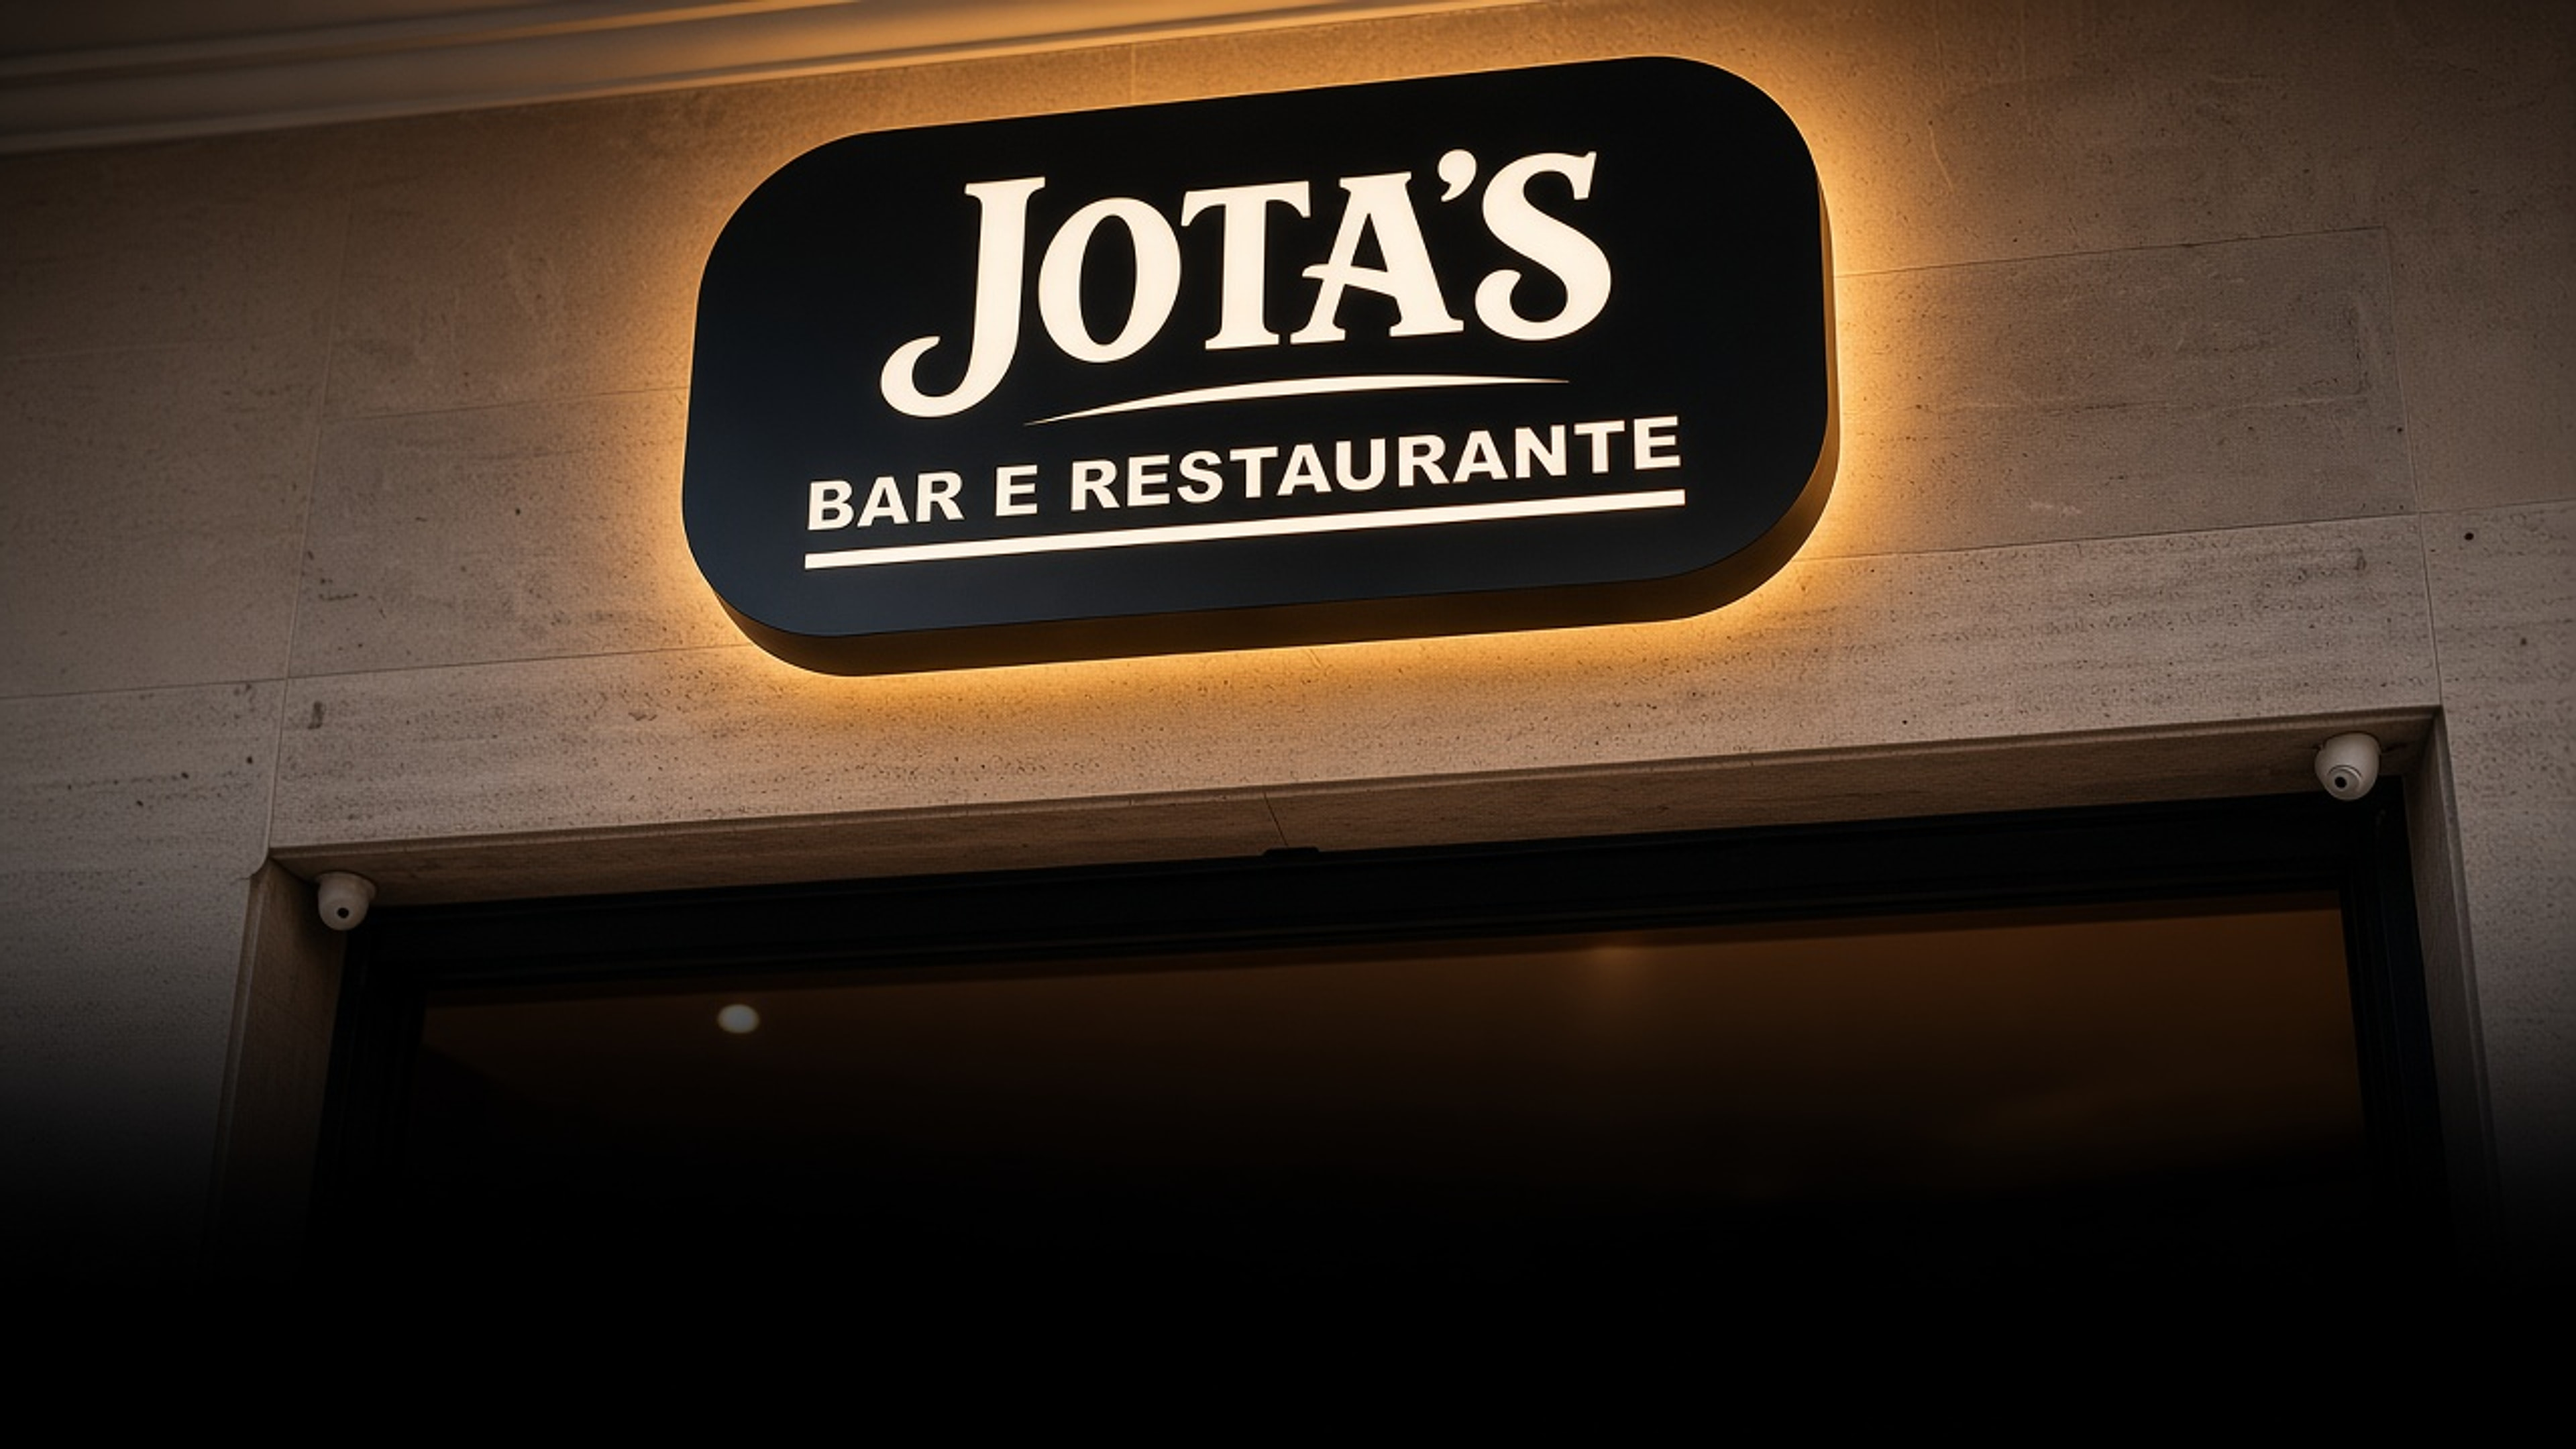
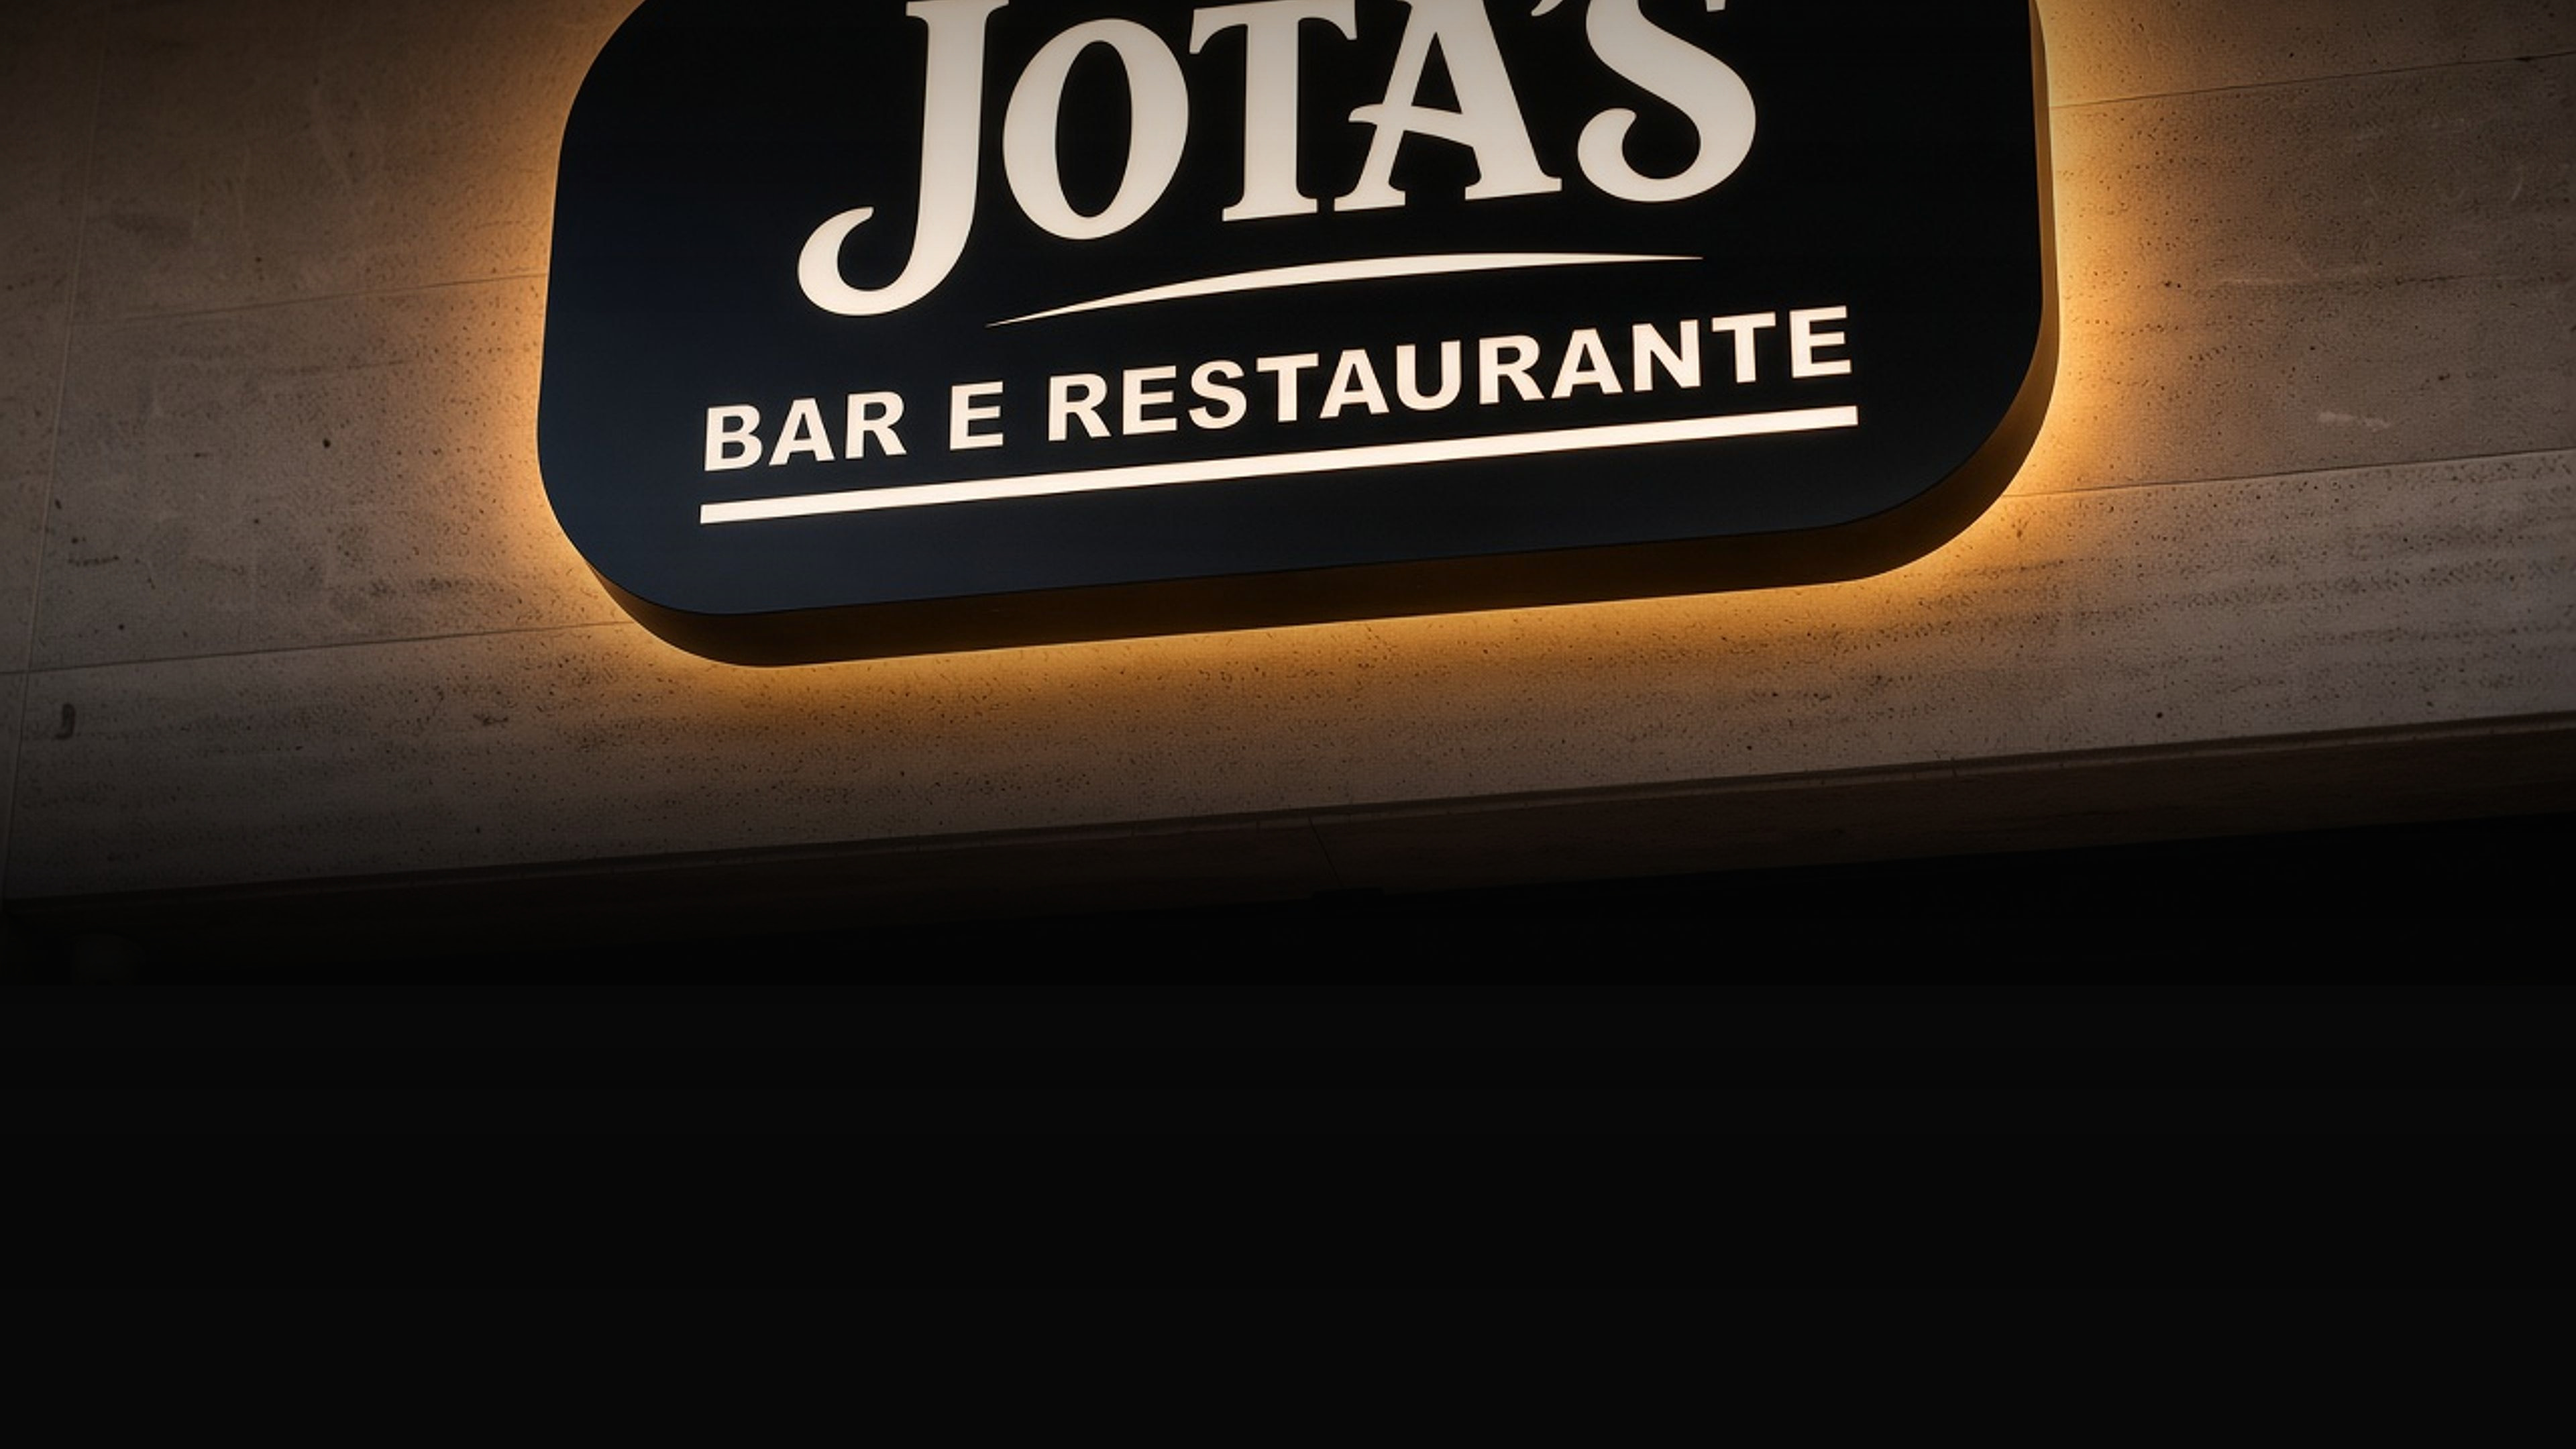
Compose sharper 4K facade with baked photo-to-ink fade
Rebuild the hero asset from a tight exterior sign close-up on a
3840×2160 charcoal canvas with an embedded soft gradient, and
simplify the CSS wash so mobile stays crisp.

diff --git a/src/components/Hero.tsx b/src/components/Hero.tsx
@@ -49,20 +49,17 @@ export function Hero() {
             priority
             sizes="100vw"
             quality={90}
-            className="object-cover object-[center_26%]"
+            className="object-cover object-[center_32%] md:object-[center_28%]"
             frameClassName="absolute inset-0 h-full w-full"
           />
         </motion.div>
 
-        {/* Degrade cinematico: foto → ink (camadas suaves, sem corte seco) */}
+        {/* Extra soft wash on top of baked gradient in the photo */}
         <div
           className="absolute inset-0"
           style={{
-            background: [
-              "linear-gradient(180deg, rgba(8,8,8,0.55) 0%, rgba(8,8,8,0.12) 18%, transparent 38%)",
-              "linear-gradient(0deg, #080808 0%, rgba(8,8,8,0.92) 18%, rgba(8,8,8,0.55) 42%, rgba(8,8,8,0.18) 62%, transparent 78%)",
-              "radial-gradient(ellipse 90% 55% at 50% 100%, rgba(8,8,8,0.88), transparent 70%)",
-            ].join(", "),
+            background:
+              "linear-gradient(0deg, #080808 0%, rgba(8,8,8,0.55) 22%, transparent 48%)",
           }}
         />
       </div>
